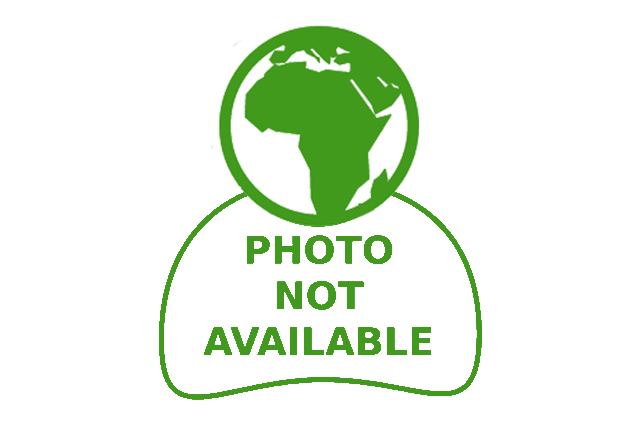
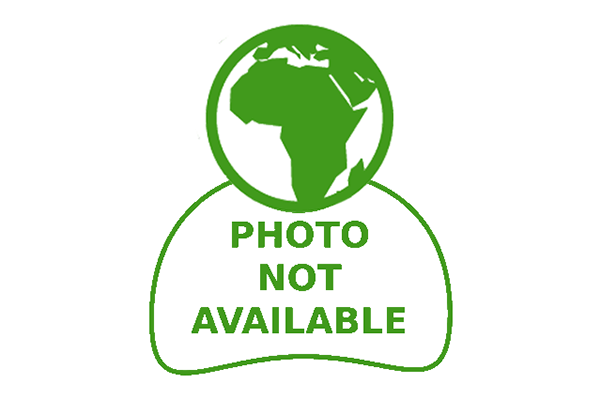
Add no image png for larger screens, resize and compress

diff --git a/projects/templates/projects/project_description.html b/projects/templates/projects/project_description.html
@@ -32,8 +32,11 @@
                         <img src="{{ project.image.url }}" class="p-detail-img" alt="{{ project.name }}">
                     </a>
                     {% else %}
-                    <a href="" class="project-link">
-                        <img src="{{ MEDIA_URL }}noimage.png" class="p-detail-img" alt="{{ project.name }}">
+                    <a href="">
+                        <img src="{{ MEDIA_URL }}noimage.png" class="d-lg-none p-detail-img" alt="{{ project.name }}">
+                    </a>
+                    <a href="">
+                        <img src="{{ MEDIA_URL }}noimage-lg.png" class="d-none d-lg-block p-detail-img" alt="{{ project.name }}">
                     </a>
                     {% endif %}
                 </div>
